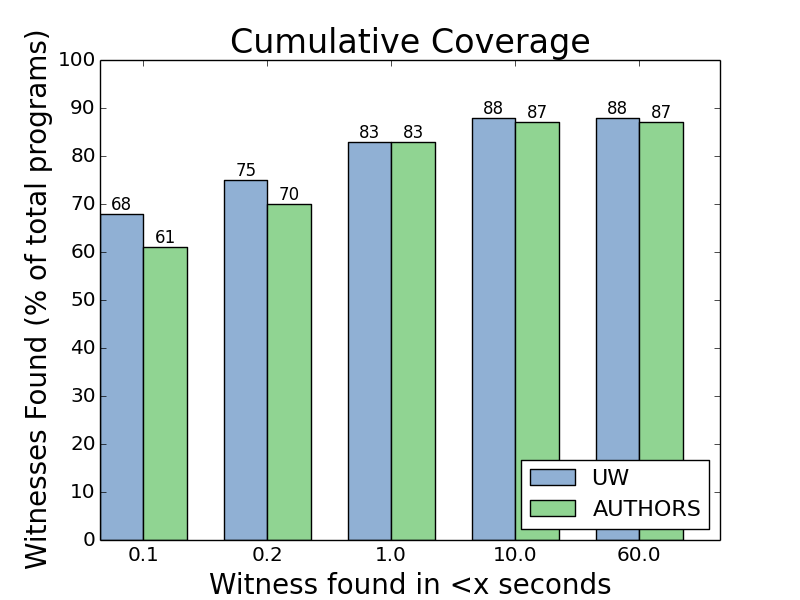
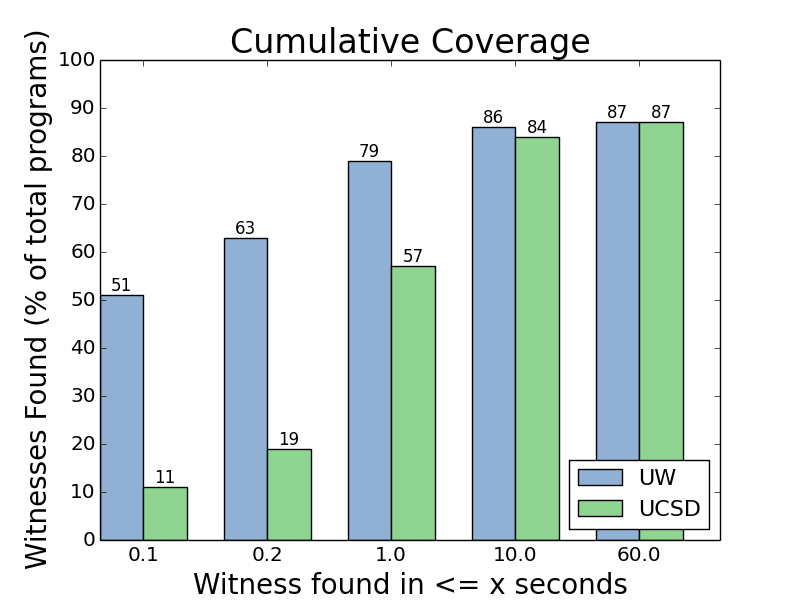
fix formatting of plots

diff --git a/paper/icfp16-cameraready/plots.py b/paper/icfp16-cameraready/plots.py
@@ -1,0 +1,258 @@
+import csv
+import matplotlib
+import matplotlib.pyplot as plt
+import numpy as np
+
+UCSD = 'UCSD'
+
+BUCKETS = [0.1, 0.2, 1.0, 10.0, 60.0 ] # range(500, 3001, 500)
+COLORS=['#90B0D4', '#90D492', '#D4B490', '#D490D2']
+#COLORS=['#348ABD', '#7A68A6', '#A60628', '#467821', '#CF4457', '#188487', '#E24A33']
+
+SAFE = ['S', 'T']
+SAFE_L = ['Safe', 'Timeout']
+UNSAFE = ['U', 'B', 'D'] #, 'O']
+UNSAFE_L = ['Unsafe', 'Unbound', 'Diverge'] #, 'Output']
+ALL = UNSAFE + SAFE
+ALL_L = UNSAFE_L + SAFE_L
+
+ALL_D = [ ['U'], ['B'], ['D'], ['S', 'T']]
+ALL_DL = [ 'Witness', 'Unbound', 'Diverge', 'No Witness'] #   ['S', 'T'], ['U'], ['B'], ['D'] ]
+
+
+def read_csv(f):
+    with open(f) as f:
+        return list(csv.reader(f))
+
+def autolabel(ax, rects):
+    # attach some text labels
+    for rect in rects:
+        height = rect.get_height()
+        ax.text(rect.get_x() + rect.get_width()/2., height,
+                '%d' % int(height),
+                ha='center', va='bottom')
+
+def cumulative_coverage(data):
+    headers = data[0]
+    data = data[1:]
+    return [(l, int(100 * len([r for r in data
+                               if float(r[2]) <= l
+                               and r[4] in UNSAFE])
+                          / float(len(data))))
+            for l in BUCKETS]
+
+def plot_coverage(seminal, ucsd):
+    xy_s = cumulative_coverage(seminal)
+    xy_u = cumulative_coverage(ucsd)
+
+
+    N = len(xy_s)
+    ind = np.arange(N)    # the x locations for the groups
+    width = 0.35       # the width of the bars: can also be len(x) sequence
+
+    fig = plt.figure()
+    p1 = plt.bar(ind, [r[1] for r in xy_s], width,
+                 color=COLORS[0])
+    p2 = plt.bar(ind + width, [r[1] for r in xy_u], width,
+                 color=COLORS[1])
+
+    plt.xlabel('Witness found in <= x seconds', fontsize=20)
+    plt.ylabel('Witnesses Found (% of total programs)', fontsize=20)
+    plt.title('Cumulative Coverage', fontsize=24)
+    plt.xticks(ind + width, [r[0] for r in xy_s], fontsize='large')
+    plt.yticks(np.arange(0, 101, 10), fontsize='large')
+    plt.legend((p1[0], p2[0]), ('UW', UCSD), 'lower right', fontsize=16)
+    # plt.legend((p1[0], p2[0]), ('Men', 'Women'))
+    autolabel(plt, p1)
+    autolabel(plt, p2)
+
+    # plt.show()
+    fig.savefig('coverage.png')
+    plt.close()
+
+BINS = [5, 10, 20, 50, 100, 1000]
+
+def cumulative_trace_size(data):
+    return [(len([r for r in data
+                 if r <= l])
+             / float(len(data))
+            * 100)
+            for l in BINS]
+
+def plot_trace_size(seminal, ucsd):
+    # xy = cumulative_coverage(data)
+
+    # N = len(xy)
+    # ind = np.arange(N)    # the x locations for the groups
+    # width = 0.5       # the width of the bars: can also be len(x) sequence
+
+    # p1 = plt.bar(ind, [r[1] for r in xy], width,
+    #              color=COLORS[0])
+
+    step_s = [int(r[5]) for r in seminal[1:] if r[4] in UNSAFE and int(r[5]) > 0]
+    jump_s = [int(r[6]) for r in seminal[1:] if r[4] in UNSAFE and int(r[6]) > 0]
+
+    step_u = [int(r[5]) for r in ucsd[1:] if r[4] in UNSAFE and int(r[5]) > 0]
+    jump_u = [int(r[6]) for r in ucsd[1:] if r[4] in UNSAFE and int(r[6]) > 0]
+    
+    binlabels = ['<= 5', '<= 10', '<= 20', '<= 50', '<= 100', 'any']
+    ind = np.arange(0, len(binlabels))
+    width = 0.35
+    # plt.figure(figsize=(100,50))
+
+
+    # fig, ax = plt.subplots()
+    # fig, axes = plt.subplots(ncols=2, sharex=True, sharey=True)
+    # ax = plt.subplot(1,2,1, aspect='equal', adjustable='box-forced')
+    # ax = axes[0]
+    # ax.set(adjustable='box-forced', aspect=4)
+
+    fig = plt.figure()
+    # y,binEdges=np.histogram(step_s,bins=bins)
+    c_step_s = cumulative_trace_size(step_s)
+    print('step complexity')
+    print('seminal:\t{}\t{}\t{}'.format(c_step_s[0], c_step_s[1], len(step_s)))
+    print('avg/med/max:\t{}\t{}\t{}'.format(np.mean(step_s), np.median(step_s), np.max(step_s)))
+    p1 = plt.bar(ind, c_step_s, label='UW', width=width, color=COLORS[0])
+
+    # y,binEdges=np.histogram(step_u,bins=bins)
+    c_step_u = cumulative_trace_size(step_u)
+    print('ucsd:\t\t{}\t{}\t{}'.format(c_step_u[0], c_step_u[1], len(step_u)))
+    print('avg/med/max:\t{}\t{}\t{}'.format(np.mean(step_u), np.median(step_s), np.max(step_u)))
+    p2 = plt.bar(ind + width, c_step_u, label=UCSD, width=width, color=COLORS[1])
+    plt.legend((p1[0],p2[0]), ('UW',UCSD), fontsize=16)
+    plt.title('Trace Complexity', fontsize=24)
+    plt.xlabel('Total Steps', fontsize=20)
+    plt.ylabel('Traces (%)', fontsize=20)
+    # ax.set_xlim(0,6)
+    # ax.set_ylim(0,len(step))
+    plt.ylim(0,100)
+    plt.xticks(ind + width, binlabels, fontsize='large')
+    plt.yticks(fontsize='large')
+
+    # autolabel(ax, p1)
+
+    plt.savefig('trace_size_step.png')
+    plt.close()
+
+
+    fig = plt.figure()
+
+    # ax = plt.subplot(1,2,2, aspect='equal', adjustable='box-forced', sharex=ax, sharey=ax)
+    # ax = axes[1]
+    # ax.set(adjustable='box-forced', aspect=4)
+
+    c_jump_s = cumulative_trace_size(jump_s)
+    # y,binEdges=np.histogram(jump_s,bins=bins)
+    # foo = y / float(len(jump_s))
+    print('jump complexity')
+    print('seminal:\t{}\t{}\t{}'.format(c_jump_s[0], c_jump_s[1], len(jump_s)))
+    print('avg/med/max:\t{}\t{}\t{}'.format(np.mean(jump_s), np.median(jump_s), np.max(jump_s)))
+    p1 = plt.bar(ind, c_jump_s, label='UW', width=width, color=COLORS[0])
+
+    # y,binEdges=np.histogram(jump_u,bins=bins)
+    # foo = y / float(len(jump_u))
+    c_jump_u = cumulative_trace_size(jump_u)
+    print('ucsd:\t\t{}\t{}\t{}'.format(c_jump_u[0], c_jump_u[1], len(jump_u)))
+    print('avg/med/max:\t{}\t{}\t{}'.format(np.mean(jump_u), np.median(jump_s), np.max(jump_u)))
+    p2 = plt.bar(ind + width, c_jump_u, label=UCSD, width=width, color=COLORS[1])
+    plt.legend((p1[0],p2[0]), ('UW',UCSD), fontsize=16)
+    # plt.title('Complexity of Traces (in jumps)', fontsize=24)
+    plt.xlabel('Total Jumps', fontsize=20)
+    # plt.xlabel('Jumps', fontsize=20)
+    plt.ylabel('Traces (%)', fontsize=20)
+    # plt.ylabel('Traces')
+    # ax.set_xlim(0,6)
+    # fig.set_ylim(0.0,1.0)
+    plt.ylim(0,100)
+    plt.xticks(ind + width, binlabels, fontsize='large')
+    plt.yticks(fontsize='large')
+    # autolabel(ax, p2)
+
+    t_jump = cumulative_trace_size(jump_s + jump_u)
+    print('total:\t\t{}\t{}'.format(t_jump[0], t_jump[1]))
+    print('mean:\t\t{}'.format(np.mean(jump_s + jump_u)))
+    print('median:\t\t{}'.format(np.median(jump_s + jump_u)))
+    print('std:\t\t{}'.format(np.std(jump_s + jump_u)))
+
+    # plt.suptitle('Size of generated traces', fontsize=16)
+
+    # p1 = plt.bar(0.5*(binEdges[1:]+binEdges[:-1]), y, label='Steps')
+    # p1 = plt.hist([step,jump], bins=bins, label=['Steps', 'Jumps'], range=(0,300), color=COLORS[:2])
+
+    # plt.xlabel('Size')
+    # plt.yticks(np.arange(0.0, 1.1, 0.1))
+    # plt.legend((p1[0],), ('UW',))
+
+    # autolabel(ax, p2)
+
+    # plt.show()
+    plt.savefig('trace_size_jump.png')
+    plt.close()
+
+def plot_distrib(seminal, ucsd):
+    # data = data[1:]
+    rs_s = [len([r for r in seminal[1:] if r[4] in o])
+            for o in ALL_D]
+    rs_u = [len([r for r in ucsd[1:] if r[4] in o])
+            for o in ALL_D]
+
+    # N = len(xy)
+    # ind = np.arange(N)    # the x locations for the groups
+    # width = 0.5       # the width of the bars: can also be len(x) sequence
+
+    ax = plt.subplot(1,2,1, aspect=1)
+    #plt.figure(figsize=(1,1))
+    #plt.axes(aspect=1)
+    p1 = ax.pie(rs_s, labels=ALL_DL,
+                 autopct='%.1f%%',
+                 pctdistance=1.3,
+                 labeldistance=10,
+                 colors=COLORS,
+                 shadow=True)
+    ax.set_title('UW', fontsize=20)
+
+    ax = plt.subplot(1,2,2, aspect=1)
+    #ax.figure(figsize=(1,1))
+    #plt.axes(aspect=1)
+    p2 = ax.pie(rs_u, labels=ALL_DL,
+                 autopct='%.1f%%',
+                 pctdistance=1.3,
+                 labeldistance=10,
+                 colors=COLORS,
+                 shadow=True)
+    ax.set_title(UCSD, fontsize=20)
+
+    #plt.tight_layout()
+
+    plt.suptitle('Distribution of Results', fontsize=24, y=0.9)
+    plt.figlegend(p1[0], ALL_DL, 'lower center', fontsize=16, ncol=4)
+
+
+    # p2 = plt.pie(rs, labels=ALL_L,
+    #              autopct='%.1f%%',
+    #              shadow=True)
+
+    # plt.xticks(ind + width/2.0, [r[0] for r in xy])
+    # plt.yticks(np.arange(0.0, 1.1, 0.1))
+    # plt.legend((p1[0],), ('Seminal',))
+    # plt.legend((p1[0], p2[0]), ('Men', 'Women'))
+
+
+
+    # plt.show()
+    plt.savefig('distrib.png')
+    plt.close()
+
+
+if __name__ == '__main__':
+    seminal = read_csv('../../seminal.csv')
+    ucsd = read_csv('../../ucsd.csv')
+
+    plot_distrib(seminal, ucsd)
+
+    plot_trace_size(seminal, ucsd)
+    # plot_trace_size(seminal, 'Seminal')
+    # plot_trace_size(ucsd, UCSD)
+
+    plot_coverage(seminal, ucsd)

diff --git a/paper/icfp16-cameraready/evaluation.tex b/paper/icfp16-cameraready/evaluation.tex
@@ -25,12 +25,12 @@ programs that were rejected by the \ocaml\ compiler because of a
 type error.
 %
 The first dataset comes from the Spring 2014 undergraduate Programming
-Languages course at our institution.
+Languages course at UC San Diego.
 %
 We recorded each interaction with the \ocaml\ top-level system over the
 course of the first three assignments (IRB  
-\# hidden for blind review), 
-% \#140608),
+% \# hidden for blind review),
+\#140608),
 from which we extracted \ucsdsize\ distinct, ill-typed \ocaml programs.
 %
 The second dataset --- widely used in the literature --- comes from a
